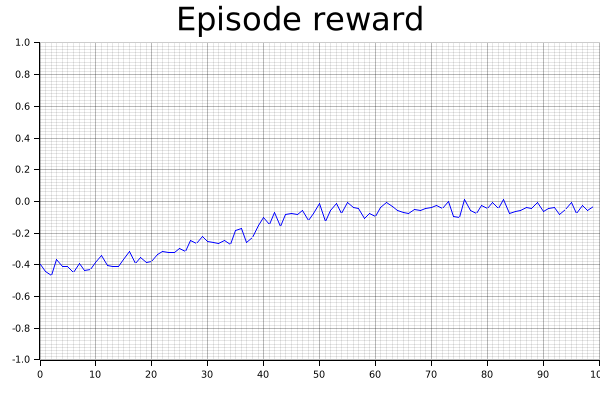
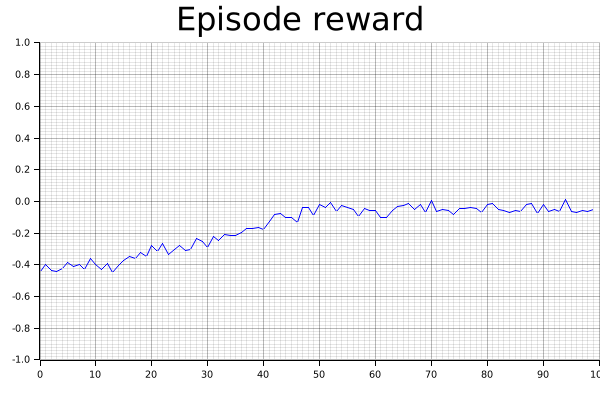
Implements the Expected SARSA algorithm

Changed region(s): [[0.21, 0.51, 0.99, 0.66], [0.06, 0.63, 0.21, 0.69]]

diff --git a/src/algorithms/policy_update/expected_sarsa_step.rs b/src/algorithms/policy_update/expected_sarsa_step.rs
@@ -1,0 +1,56 @@
+use std::cell::RefCell;
+
+use super::PolicyUpdate;
+
+use crate::{env::{Observation, ActionSpace}, Policy, algorithms::action_selection::ActionSelection, utils::argmax};
+
+pub struct ExpectedSarsaStep {
+    learning_rate: f64,
+    discount_factor: f64
+}
+
+impl ExpectedSarsaStep {
+    pub fn new(learning_rate: f64, discount_factor: f64) -> Self {
+        return Self{learning_rate, discount_factor}
+    }
+}
+
+impl PolicyUpdate for ExpectedSarsaStep {
+    fn update(
+        &mut self,
+        curr_obs:Observation,
+        curr_action: usize,
+        next_obs: Observation,
+        _next_action: usize,
+        reward: f64,
+        _terminated: bool,
+        policy: &mut Policy,
+        action_selection: &Box<RefCell<dyn ActionSelection>>
+    ) {
+        let action_space: ActionSpace = policy.action_space.clone();
+        let next_q_values: &Vec<f64> = policy.get_ref(next_obs.clone());
+        let epsilon: f64 = action_selection.borrow().get_exploration_rate();
+        let policy_probs: Vec<f64> = action_selection.borrow().get_exploration_probs(&action_space);
+        let best_action_value: f64 = next_q_values[argmax(&next_q_values)];
+        
+        let mut n_max_action: i32 = 0;
+        for i in 0..action_space.size {
+            if next_q_values[i] == best_action_value {
+                n_max_action += 1;
+            }
+        }
+        let mut future_q_value: f64 = 0.0;
+        for i in 0..action_space.size {
+            if next_q_values[i] == best_action_value {
+                future_q_value += (policy_probs[i] + (1.0-epsilon) / n_max_action as f64) * next_q_values[i]
+            } else {
+                future_q_value += policy_probs[i] * next_q_values[i]
+            }
+        }
+        
+        let values: &mut Vec<f64> = policy.get_mut(curr_obs);
+        let temporal_difference: f64 = reward + self.discount_factor * future_q_value - values[curr_action];
+        values[curr_action] = values[curr_action] + self.learning_rate * temporal_difference;
+    }
+}
+

diff --git a/src/algorithms/policy_update/q_lambda.rs b/src/algorithms/policy_update/q_lambda.rs
@@ -2,7 +2,7 @@ use std::cell::{RefCell, RefMut};
 
 use super::PolicyUpdate;
 
-use crate::{env::{Observation, ActionSpace}, Policy, utils::argmax};
+use crate::{env::{Observation, ActionSpace}, Policy, utils::argmax, algorithms::action_selection::ActionSelection};
 
 pub struct QLambda {
     learning_rate: f64,
@@ -36,20 +36,16 @@ impl PolicyUpdate for QLambda {
         next_obs: Observation,
         next_action: usize,
         reward: f64,
-        terminated: bool,
-        policy: &mut Policy
+        _terminated: bool,
+        policy: &mut Policy,
+        _action_selection: &Box<RefCell<dyn ActionSelection>>
     ) {
         let next_q_values: &Vec<f64> = policy.get_ref(next_obs);
         let best_next_action: usize = argmax(&next_q_values);
-        // O valor dentro do if é a diferença entre o SARSA e o QLearning
-        // Aqui o melhor valor é utilizado (valor da melhor ação)
-        let future_q_value: f64 = if !terminated {
-            next_q_values[best_next_action]
-        } else {
-            0.0
-        };
+        let future_q_value: f64 = next_q_values[best_next_action];
         let values: &mut Vec<f64> = policy.get_mut(curr_obs.clone());
         let temporal_difference: f64 = reward + self.discount_factor * future_q_value - values[curr_action];
+        
         let mut trace: RefMut<Policy> = self.trace.borrow_mut();
         trace.get_mut(curr_obs.clone())[curr_action] += 1.0;
 

diff --git a/src/algorithms/policy_update/q_step.rs b/src/algorithms/policy_update/q_step.rs
@@ -1,6 +1,8 @@
+use std::cell::RefCell;
+
 use super::PolicyUpdate;
 
-use crate::{env::Observation, Policy, utils::argmax};
+use crate::{env::Observation, Policy, utils::argmax, algorithms::action_selection::ActionSelection};
 
 pub struct QStep {
     learning_rate: f64,
@@ -21,18 +23,12 @@ impl PolicyUpdate for QStep {
         next_obs: Observation,
         _next_action: usize,
         reward: f64,
-        terminated: bool,
-        policy: &mut Policy
+        _terminated: bool,
+        policy: &mut Policy,
+        _action_selection: &Box<RefCell<dyn ActionSelection>>
     ) {
         let next_q_values: &Vec<f64> = policy.get_ref(next_obs.clone());
-        let best_next_action: usize = argmax(&next_q_values);
-        // O valor dentro do if é a diferença entre o SARSA e o QLearning
-        // Aqui o melhor valor é utilizado (valor da melhor ação)
-        let future_q_value: f64 = if !terminated {
-            next_q_values[best_next_action]
-        } else {
-            0.0
-        };
+        let future_q_value: f64 = next_q_values[argmax(&next_q_values)];
         let values: &mut Vec<f64> = policy.get_mut(curr_obs);
         let temporal_difference: f64 = reward + self.discount_factor * future_q_value - values[curr_action];
         values[curr_action] = values[curr_action] + self.learning_rate * temporal_difference;

diff --git a/src/algorithms/policy_update/sarsa_lambda.rs b/src/algorithms/policy_update/sarsa_lambda.rs
@@ -2,7 +2,7 @@ use std::cell::{RefCell, RefMut};
 
 use super::PolicyUpdate;
 
-use crate::{env::{Observation, ActionSpace}, Policy};
+use crate::{env::{Observation, ActionSpace}, Policy, algorithms::action_selection::ActionSelection};
 
 pub struct SarsaLambda {
     learning_rate: f64,
@@ -36,19 +36,15 @@ impl PolicyUpdate for SarsaLambda {
         next_obs: Observation,
         next_action: usize,
         reward: f64,
-        terminated: bool,
-        policy: &mut Policy
+        _terminated: bool,
+        policy: &mut Policy,
+        _action_selection: &Box<RefCell<dyn ActionSelection>>
     ) {
         let next_q_values: &Vec<f64> = policy.get_ref(next_obs.clone());
-        // O valor dentro do else é a diferença entre o SARSA e o QLearning
-        // Aqui o valor da próxima ação é utilizado
-        let future_q_value = if !terminated {
-            next_q_values[next_action]
-        } else {
-            0.0
-        };
+        let future_q_value = next_q_values[next_action];
         let values: &mut Vec<f64> = policy.get_mut(curr_obs.clone());
         let temporal_difference: f64 = reward + self.discount_factor * future_q_value - values[curr_action];
+        
         let mut trace: RefMut<Policy> = self.trace.borrow_mut();
         trace.get_mut(curr_obs)[curr_action] += 1.0;
 

diff --git a/src/algorithms/policy_update/sarsa_step.rs b/src/algorithms/policy_update/sarsa_step.rs
@@ -1,6 +1,8 @@
+use std::cell::RefCell;
+
 use super::PolicyUpdate;
 
-use crate::{env::Observation, Policy};
+use crate::{env::Observation, Policy, algorithms::action_selection::ActionSelection};
 
 pub struct SarsaStep {
     learning_rate: f64,
@@ -21,17 +23,12 @@ impl PolicyUpdate for SarsaStep {
         next_obs: Observation,
         next_action: usize,
         reward: f64,
-        terminated: bool,
-        policy: &mut Policy
+        _terminated: bool,
+        policy: &mut Policy,
+        _action_selection: &Box<RefCell<dyn ActionSelection>>
     ) {
         let next_q_values: &Vec<f64> = policy.get_ref(next_obs.clone());
-        // O valor dentro do else é a diferença entre o SARSA e o QLearning
-        // Aqui o valor da próxima ação é utilizado
-        let future_q_value = if !terminated {
-            next_q_values[next_action]
-        } else {
-            0.0
-        };
+        let future_q_value = next_q_values[next_action];
         let values: &mut Vec<f64> = policy.get_mut(curr_obs);
         let temporal_difference: f64 = reward + self.discount_factor * future_q_value - values[curr_action];
         values[curr_action] = values[curr_action] + self.learning_rate * temporal_difference;

diff --git a/src/main.rs b/src/main.rs
@@ -5,7 +5,7 @@ use plotters::prelude::{BitMapBackend, ChartBuilder, IntoDrawingArea, LabelAreaP
 use plotters::series::LineSeries;
 use plotters::style::{BLUE, WHITE};
 
-use reinforcement_learning::algorithms::{action_selection::EpsilonGreed, policy_update::QStep};
+use reinforcement_learning::algorithms::{action_selection::EpsilonGreed, policy_update::ExpectedSarsaStep};
 use reinforcement_learning::env::{BlackJackEnv, Env, EnvNotReady, Observation};
 use reinforcement_learning::utils::moving_average;
 use reinforcement_learning::{Agent, Policy};
@@ -19,7 +19,7 @@ fn main() {
     let discount_factor: f64 = 0.95;
     let mut env: BlackJackEnv = BlackJackEnv::new();
 
-    let policy_update_strategy = QStep::new(learning_rate, discount_factor);
+    let policy_update_strategy = ExpectedSarsaStep::new(learning_rate, discount_factor);
     let action_selection_strategy = EpsilonGreed::new(start_epsilon, epsilon_decay, final_epsilon);
     let policy: Policy = Policy::new(0.0, env.action_space());
 

diff --git a/src/algorithms/policy_update.rs b/src/algorithms/policy_update.rs
@@ -1,3 +1,5 @@
+use std::cell::RefCell;
+
 use crate::env::Observation;
 
 use crate::Policy;
@@ -6,11 +8,15 @@ mod q_step;
 mod sarsa_step;
 mod q_lambda;
 mod sarsa_lambda;
+mod expected_sarsa_step;
 
 pub use q_step::QStep;
 pub use sarsa_step::SarsaStep;
 pub use q_lambda::QLambda;
 pub use sarsa_lambda::SarsaLambda;
+pub use expected_sarsa_step::ExpectedSarsaStep;
+
+use super::action_selection::ActionSelection;
 
 
 pub trait PolicyUpdate {
@@ -22,6 +28,7 @@ pub trait PolicyUpdate {
         next_action: usize,
         reward: f64,
         terminated: bool,
-        policy: &mut Policy
+        policy: &mut Policy,
+        action_selection: &Box<RefCell<dyn ActionSelection>>
     );
 }

diff --git a/src/agent.rs b/src/agent.rs
@@ -60,7 +60,16 @@ impl Agent {
         if terminated {
             self.action_selection_strategy.borrow_mut().update();
         }
-        self.policy_update_strategy.borrow_mut().update(curr_obs.clone(), curr_action, next_obs.clone(), next_action, reward, terminated, &mut self.policy);
+        self.policy_update_strategy.borrow_mut().update(
+            curr_obs.clone(),
+            curr_action,
+            next_obs.clone(),
+            next_action,
+            reward,
+            terminated,
+            &mut self.policy,
+            &self.action_selection_strategy
+        );
 
         // self.training_error.push(temporal_difference);
     }

diff --git a/src/algorithms/action_selection/epsilon_greed.rs b/src/algorithms/action_selection/epsilon_greed.rs
@@ -8,7 +8,7 @@ use super::ActionSelection;
 #[derive(Debug, Clone)]
 pub struct EpsilonSampler {
     dist: Uniform<f64>,
-    epsilon: f64,
+    pub epsilon: f64,
     epsilon_decay: f64,
     final_epsilon: f64
 }
@@ -66,5 +66,13 @@ impl ActionSelection for EpsilonGreed {
 
     fn update(&mut self) {
         self.epsilon_sampler.decay_epsilon();
+    }
+
+    fn get_exploration_probs(&self, action_space: &ActionSpace) -> Vec<f64> {
+        return vec![self.epsilon_sampler.epsilon/action_space.size as f64; action_space.size];
+    }
+
+    fn get_exploration_rate(&self) -> f64 {
+        return self.epsilon_sampler.epsilon;
     }
 }

diff --git a/src/algorithms/action_selection.rs b/src/algorithms/action_selection.rs
@@ -10,4 +10,6 @@ pub trait ActionSelection  {
     fn prepare_agent(&mut self);
     fn get_action(&self, obs: &Observation, action_space: &ActionSpace, policy: &Policy) -> usize;
     fn update(&mut self);
+    fn get_exploration_probs(&self, action_space: &ActionSpace) -> Vec<f64>;
+    fn get_exploration_rate(&self) -> f64;
 }
